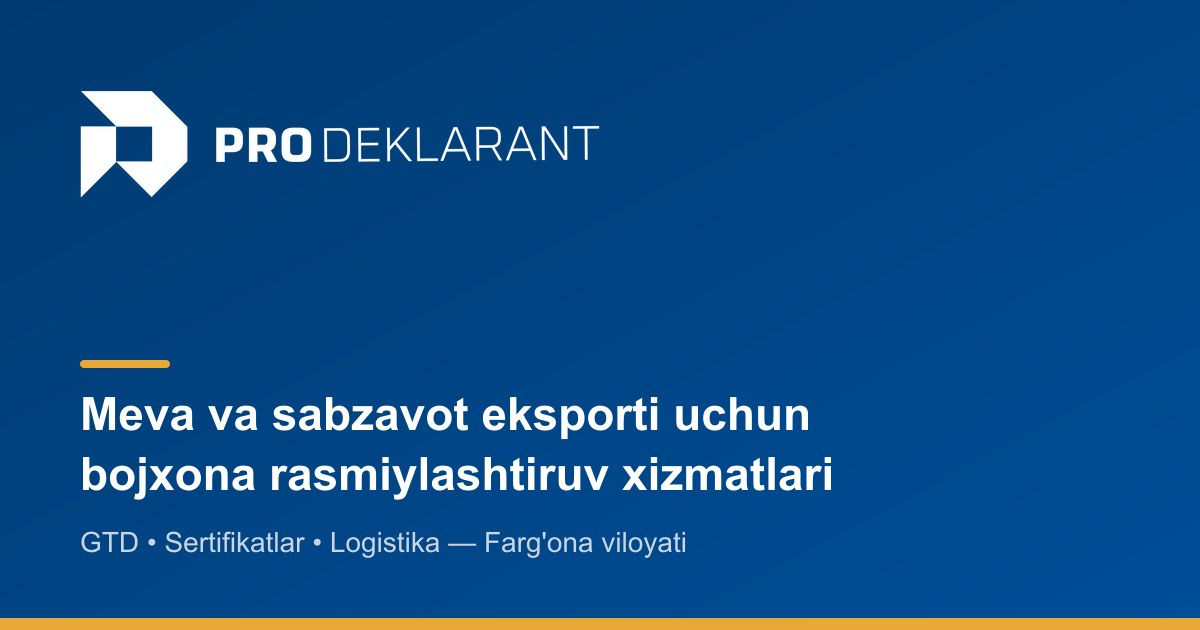
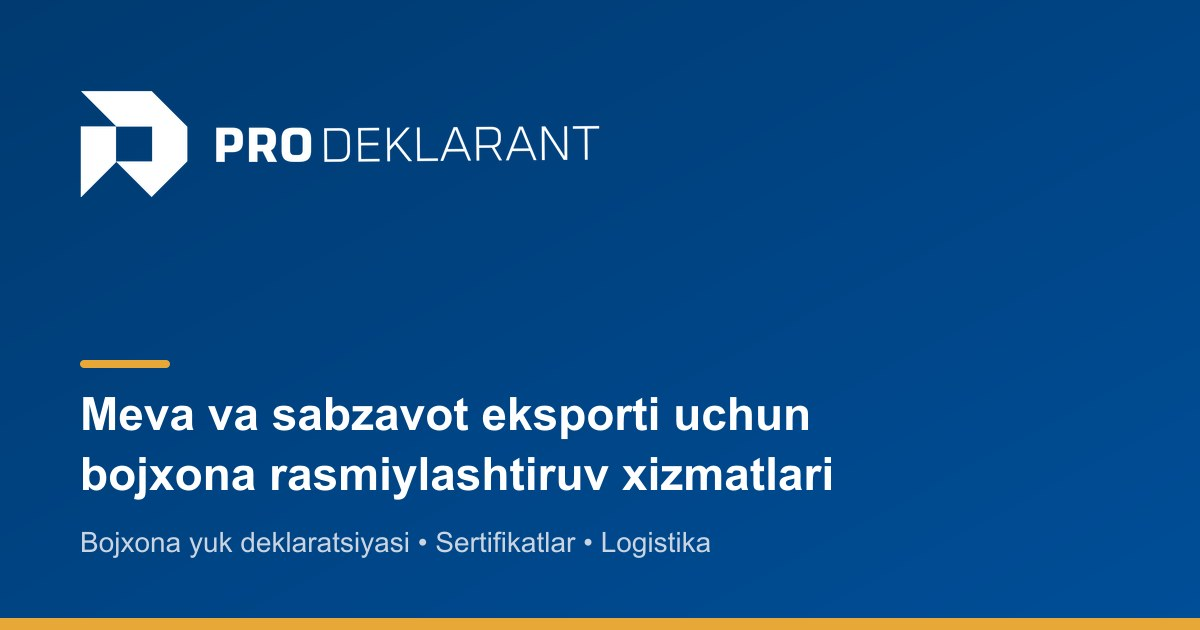
feat(home): ichki tizim bo'limi, Afzalliklar yangilandi, GTD → bojxona yuk deklaratsiyasi
- yangi 'Bizning tizim' bo'limi (04), keyingi bo'limlar qayta raqamlandi
- Afzalliklar: tezkor, xatosiz hujjatlar, ixtisoslashuv, kechki smena
- hero: sariq ibora, 7 qatorli kartochka, yangi matnlar
- GTD/ГТД so'zlari meta, og-rasm va tarjimalardan olib tashlandi

Changed region(s): [[0.0617, 0.8444, 0.6167, 0.9048]]

diff --git a/src/app/components/home/System.tsx b/src/app/components/home/System.tsx
@@ -1,0 +1,76 @@
+import { Check, FileSearch, LayoutDashboard, ListChecks, QrCode, Wand2 } from 'lucide-react';
+import { useTranslation } from 'react-i18next';
+import { SectionLabel, type CssVars } from './shared';
+
+const FEATURES = [
+  { icon: FileSearch, key: 'check' },
+  { icon: Wand2, key: 'fill' },
+  { icon: LayoutDashboard, key: 'cabinet' },
+  { icon: ListChecks, key: 'stages' },
+  { icon: QrCode, key: 'qr' },
+] as const;
+
+/** Mijoz kabinetidagi bosqichlar (Hero kartochkasi bilan bir xil nomlar). Ma'lumot emas, sxema. */
+const STAGES = ['invoice', 'packing', 'certs', 'tir', 'analysis', 'declaration', 'submit'] as const;
+const DONE = 5;
+
+export default function System({ num = '04' }: { num?: string }) {
+  const { t } = useTranslation();
+  return (
+    <section id="system" style={{ background: 'var(--paper)', padding: '120px 0' }}>
+      <div className="wrap" style={{ display: 'flex', flexWrap: 'wrap', gap: '64px 80px', alignItems: 'flex-start' }}>
+        <div style={{ flex: '1 1 460px', minWidth: 0 }}>
+          <div className="rv">
+            <SectionLabel num={num}>{t('pd.system.label')}</SectionLabel>
+            <h2 className="serif h2">{t('pd.system.title')}</h2>
+            <p className="lede">{t('pd.system.lede')}</p>
+          </div>
+          <div style={{ marginTop: 44, borderBottom: '1px solid var(--line)' }}>
+            {FEATURES.map((f, i) => (
+              <div key={f.key} className="adv rv" style={{ '--s': `${i * 5}%`, padding: '24px 0 24px 26px' } as CssVars}>
+                <div className="ibox"><f.icon size={24} strokeWidth={1.6} aria-hidden /></div>
+                <div>
+                  <h3 className="serif" style={{ margin: '0 0 6px', fontSize: 24, lineHeight: 1.2 }}>{t(`pd.system.items.${f.key}.title`)}</h3>
+                  <p style={{ margin: 0, color: 'var(--mut)', fontSize: 16 }}>{t(`pd.system.items.${f.key}.desc`)}</p>
+                </div>
+              </div>
+            ))}
+          </div>
+          <p className="rv" style={{ margin: '26px 0 0', color: 'var(--mut)', fontSize: 15 }}>{t('pd.system.note')}</p>
+        </div>
+
+        <div className="sys-wrap rv" style={{ '--s': '8%' } as CssVars}>
+          <div className="sys-card" role="img" aria-label={t('pd.system.cabinet.title')}>
+            <div className="sys-bar">
+              <span className="mono" style={{ color: 'var(--gold-d)', fontSize: 12 }}>{t('pd.system.cabinet.title')}</span>
+              <span className="mono" style={{ color: 'var(--mut)', fontSize: 12 }}>{DONE} / {STAGES.length}</span>
+            </div>
+            <div className="sys-prog"><i style={{ width: `${(DONE / STAGES.length) * 100}%` }} /></div>
+            <div className="mono" style={{ padding: '16px 24px 4px', color: 'var(--mut)', fontSize: 11.5 }}>{t('pd.system.cabinet.sub')}</div>
+            <ol style={{ listStyle: 'none', margin: 0, padding: '0 24px 8px' }}>
+              {STAGES.map((st, i) => {
+                const state = i < DONE ? 'done' : i === DONE ? 'doing' : 'wait';
+                return (
+                  <li key={st} className={`sys-row sys-${state}`}>
+                    <span className="sys-dot" aria-hidden>
+                      {state === 'done' && (
+                        <svg viewBox="0 0 24 24" width="14" height="14">
+                          <path className="sys-tk" pathLength={1} style={{ '--s': `${i * 4}%` } as CssVars} d="M4 12l5 5L20 6" fill="none" stroke="currentColor" strokeWidth="3" strokeLinecap="round" strokeLinejoin="round" />
+                        </svg>
+                      )}
+                    </span>
+                    <span className="sys-name">{t(`pd.hero.card.${st}`)}</span>
+                    <span className="sys-state">{t(`pd.system.cabinet.${state}`)}</span>
+                  </li>
+                );
+              })}
+            </ol>
+            <div className="sys-foot">
+              <Check size={16} strokeWidth={2} aria-hidden /> {t('pd.system.cabinet.foot')}
+            </div>
+          </div>
+        </div>
+      </div>
+    </section>
+  );
+}

diff --git a/index.html b/index.html
@@ -12,7 +12,7 @@
   <!-- SEO:start -->
   <title>PRO DEKLARANT — Meva va sabzavot eksporti uchun bojxona rasmiylashtiruv</title>
   <meta name="description"
-    content="Meva-sabzavot eksportchilari uchun professional bojxona brokerlik xizmatlari. GTD rasmiylashtirish, sertifikatlar, logistika. Farg'ona viloyati." />
+    content="Meva-sabzavot eksportchilari uchun professional bojxona brokerlik xizmatlari. Bojxona yuk deklaratsiyasi, sertifikatlar, logistika. Farg'ona viloyati." />
   <link rel="canonical" href="https://prodeklarant.uz/" />
   <link rel="alternate" hreflang="uz" href="https://prodeklarant.uz/" />
   <link rel="alternate" hreflang="ru" href="https://prodeklarant.uz/ru" />
@@ -26,7 +26,7 @@
   <meta property="og:locale:alternate" content="en_US" />
   <meta property="og:title" content="PRO DEKLARANT — Meva va sabzavot eksporti uchun bojxona rasmiylashtiruv" />
   <meta property="og:description"
-    content="Meva-sabzavot eksportchilari uchun professional bojxona brokerlik xizmatlari. GTD rasmiylashtirish, sertifikatlar, logistika. Farg'ona viloyati." />
+    content="Meva-sabzavot eksportchilari uchun professional bojxona brokerlik xizmatlari. Bojxona yuk deklaratsiyasi, sertifikatlar, logistika. Farg'ona viloyati." />
   <meta property="og:url" content="https://prodeklarant.uz/" />
   <meta property="og:image" content="https://prodeklarant.uz/og-cover.jpg" />
   <meta property="og:image:width" content="1200" />
@@ -34,7 +34,7 @@
   <meta name="twitter:card" content="summary_large_image" />
   <meta name="twitter:title" content="PRO DEKLARANT — Meva va sabzavot eksporti uchun bojxona rasmiylashtiruv" />
   <meta name="twitter:description"
-    content="Meva-sabzavot eksportchilari uchun professional bojxona brokerlik xizmatlari. GTD rasmiylashtirish, sertifikatlar, logistika. Farg'ona viloyati." />
+    content="Meva-sabzavot eksportchilari uchun professional bojxona brokerlik xizmatlari. Bojxona yuk deklaratsiyasi, sertifikatlar, logistika. Farg'ona viloyati." />
   <meta name="twitter:image" content="https://prodeklarant.uz/og-cover.jpg" />
   <!-- SEO:end -->
   <script>
@@ -44,7 +44,7 @@
       var seg = p.split('/')[1];
       if (seg === 'ru' || seg === 'en') { p = p.slice(3) || '/'; }
       var pages = {
-        '/': { t: 'PRO DEKLARANT — Meva va sabzavot eksporti uchun bojxona rasmiylashtiruv', d: 'Meva-sabzavot eksportchilari uchun professional bojxona brokerlik xizmatlari. GTD rasmiylashtirish, sertifikatlar, logistika. Farg\'ona viloyati.' },
+        '/': { t: 'PRO DEKLARANT — Meva va sabzavot eksporti uchun bojxona rasmiylashtiruv', d: 'Meva-sabzavot eksportchilari uchun professional bojxona brokerlik xizmatlari. Bojxona yuk deklaratsiyasi, sertifikatlar, logistika. Farg\'ona viloyati.' },
         '/services': { t: 'Xizmatlar — PRO DEKLARANT', d: 'Bojxona yuk deklaratsiyasi, fitosanitariya, sertifikatlashtirish va eksport logistikasi. Meva-sabzavot eksporti bo\'yicha to\'liq xizmatlar.' },
         '/about': { t: 'Kompaniya haqida — PRO DEKLARANT', d: 'PRO DEKLARANT — meva va sabzavot eksporti uchun ixtisoslashtirilgan bojxona xizmatlari. Professional jamoa, qonuniy kafolat, xalqaro tajriba.' },
         '/contact': { t: 'Aloqa — PRO DEKLARANT', d: 'PRO DEKLARANT bilan bog\'laning: Farg\'ona viloyati, Oltiariq. Bepul konsultatsiya va bojxona xizmatlari bo\'yicha yordam.' },

diff --git a/src/styles/pd.css b/src/styles/pd.css
@@ -236,3 +236,30 @@ html:has(.pd-home) { scroll-behavior: smooth; }
   .pd .vmonths { font-size: 10px !important; }
   .pd .hrow { grid-template-columns: 92px minmax(0, 1fr) 48px; gap: 10px; }
 }
+
+/* Ichki tizim bo'limi: mijoz kabineti sxemasi */
+.pd .sys-wrap { flex: 1 1 400px; min-width: 0; max-width: 520px; position: sticky; top: 110px; }
+.pd .sys-card { background: #fff; border: 1px solid var(--line); border-top: 4px solid var(--blue); box-shadow: 0 40px 70px -40px rgba(10, 31, 58, .35); }
+.pd .sys-bar { display: flex; align-items: center; justify-content: space-between; gap: 12px; padding: 16px 24px 14px; }
+.pd .sys-prog { height: 3px; background: var(--line); }
+.pd .sys-prog i { display: block; height: 100%; background: var(--blue); transform-origin: left; animation: lineIn 1.1s cubic-bezier(.2, .8, .2, 1) both; }
+.pd .sys-row { display: flex; align-items: center; gap: 14px; padding: 13px 0; border-top: 1px solid var(--line); }
+.pd .sys-row:first-child { border-top: 0; }
+.pd .sys-dot { flex: none; width: 24px; height: 24px; border-radius: 50%; display: grid; place-items: center; border: 1.5px solid var(--line); color: #fff; }
+.pd .sys-name { flex: 1; min-width: 0; font-weight: 500; }
+.pd .sys-state { flex: none; font-size: 13.5px; font-weight: 600; }
+.pd .sys-done .sys-dot { background: #1F9D55; border-color: #1F9D55; }
+.pd .sys-done .sys-state { color: #17783F; }
+.pd .sys-doing .sys-dot { border-color: var(--gold); background: #fff; animation: pulse 1.8s ease-out infinite; }
+.pd .sys-doing .sys-dot::after { content: ""; width: 8px; height: 8px; border-radius: 50%; background: var(--gold); }
+.pd .sys-doing .sys-state { color: var(--gold-d); }
+.pd .sys-wait .sys-name, .pd .sys-wait .sys-state { color: var(--mut); font-weight: 400; }
+.pd .sys-foot { display: flex; align-items: center; gap: 8px; padding: 14px 24px; border-top: 1px solid var(--line); background: var(--paper); font-size: 14px; color: var(--mut); }
+.pd .sys-foot svg { color: #17783F; flex: none; }
+.pd .sys-tk { stroke-dasharray: 1; stroke-dashoffset: 0; }
+@supports (animation-timeline: view()) {
+  .pd .sys-tk { animation: draw linear both; animation-timeline: view(); animation-range: entry calc(35% + var(--s, 0%)) entry calc(75% + var(--s, 0%)); }
+}
+@media (max-width: 1000px) {
+  .pd .sys-wrap { position: static; max-width: none; flex-basis: 100%; }
+}

diff --git a/server/seo.js b/server/seo.js
@@ -33,7 +33,7 @@ const STATIC_ROUTES = {
     '/': {
       title: 'PRO DEKLARANT — Meva va sabzavot eksporti uchun bojxona rasmiylashtiruv',
       description:
-        "Meva-sabzavot eksportchilari uchun professional bojxona brokerlik xizmatlari. GTD rasmiylashtirish, sertifikatlar, logistika. Farg'ona viloyati.",
+        "Meva-sabzavot eksportchilari uchun professional bojxona brokerlik xizmatlari. Bojxona yuk deklaratsiyasi, sertifikatlar, logistika. Farg'ona viloyati.",
     },
     '/services': {
       title: 'Xizmatlar — PRO DEKLARANT',
@@ -60,7 +60,7 @@ const STATIC_ROUTES = {
     '/': {
       title: 'PRO DEKLARANT — Таможенное оформление для экспорта фруктов и овощей',
       description:
-        'Профессиональные таможенные брокерские услуги для экспортёров фруктов и овощей. Оформление ГТД, сертификаты, логистика. Ферганская область.',
+        'Профессиональные таможенные брокерские услуги для экспортёров фруктов и овощей. Оформление таможенной грузовой декларации, сертификаты, логистика. Ферганская область.',
     },
     '/services': {
       title: 'Услуги — PRO DEKLARANT',
@@ -87,7 +87,7 @@ const STATIC_ROUTES = {
     '/': {
       title: 'PRO DEKLARANT — Customs clearance for fruit and vegetable export',
       description:
-        'Professional customs brokerage for fruit and vegetable exporters. GTD clearance, certificates, logistics. Fergana region, Uzbekistan.',
+        'Professional customs brokerage for fruit and vegetable exporters. Customs cargo declaration clearance, certificates, logistics. Fergana region, Uzbekistan.',
     },
     '/services': {
       title: 'Services — PRO DEKLARANT',

diff --git a/src/app/pages/Home.tsx b/src/app/pages/Home.tsx
@@ -9,6 +9,7 @@ import Partners from '../components/home/Partners';
 import Why from '../components/home/Why';
 import ServicesPicker from '../components/home/ServicesPicker';
 import Process from '../components/home/Process';
+import System from '../components/home/System';
 import Products from '../components/home/Products';
 import Results from '../components/home/Results';
 import Tariffs from '../components/home/Tariffs';
@@ -40,6 +41,7 @@ export default function Home() {
       <Why />
       <ServicesPicker />
       <Process />
+      <System />
       <Products />
       <Results stats={stats} />
       <Tariffs />
@@ -48,8 +50,8 @@ export default function Home() {
       <Testimonials />
 
       {/* Maqola bo'lmasa blok chizilmaydi; raqamlash shunga moslashadi */}
-      {latestPosts.length > 0 && <BlogPreview posts={latestPosts} num="07" />}
-      <ContactSection num={latestPosts.length > 0 ? '08' : '07'} />
+      {latestPosts.length > 0 && <BlogPreview posts={latestPosts} num="08" />}
+      <ContactSection num={latestPosts.length > 0 ? '09' : '08'} />
     </div>
   );
 }

diff --git a/src/app/components/home/Results.tsx b/src/app/components/home/Results.tsx
@@ -185,7 +185,7 @@ export default function Results({ stats }: { stats: SiteStats | null }) {
       <div className="wrap">
         <div className="rv" style={{ display: 'flex', flexWrap: 'wrap', alignItems: 'flex-end', justifyContent: 'space-between', gap: 28 }}>
           <div>
-            <SectionLabel num="05">{t('pd.results.label')}</SectionLabel>
+            <SectionLabel num="06">{t('pd.results.label')}</SectionLabel>
             <h2 id="results-heading" className="serif h2">{live ? t('pd.results.title') : t('home.stats.title')}</h2>
             {live && <p className="lede">{t('trust.stats.subtitle', { months: stats.periodMonths })}</p>}
           </div>

diff --git a/src/app/components/home/Why.tsx b/src/app/components/home/Why.tsx
@@ -1,12 +1,12 @@
-import { Globe, ShieldCheck, Users, Zap } from 'lucide-react';
+import { Cherry, Moon, ShieldCheck, Zap } from 'lucide-react';
 import { useTranslation } from 'react-i18next';
 import { Photo, SectionLabel, type CssVars } from './shared';
 
 const ITEMS = [
   { icon: Zap, key: 'fast' },
   { icon: ShieldCheck, key: 'legal' },
-  { icon: Users, key: 'team' },
-  { icon: Globe, key: 'global' },
+  { icon: Cherry, key: 'focus' },
+  { icon: Moon, key: 'night' },
 ] as const;
 
 export default function Why() {

diff --git a/src/app/components/home/Tariffs.tsx b/src/app/components/home/Tariffs.tsx
@@ -9,7 +9,7 @@ export default function Tariffs() {
     <section id="tariffs" style={{ background: '#fff', padding: '120px 0' }}>
       <div className="wrap">
         <div className="rv">
-          <SectionLabel num="06">{t('pd.tariffs.label')}</SectionLabel>
+          <SectionLabel num="07">{t('pd.tariffs.label')}</SectionLabel>
           <h2 className="serif h2">{t('pd.tariffs.title')}</h2>
           <p className="lede">{t('home.tariffs.subtitle')}</p>
         </div>

diff --git a/src/app/components/home/Products.tsx b/src/app/components/home/Products.tsx
@@ -13,7 +13,7 @@ export default function Products() {
     <section style={{ background: '#fff', padding: '120px 0' }}>
       <div className="wrap">
         <div className="rv">
-          <SectionLabel num="04">{t('pd.products.label')}</SectionLabel>
+          <SectionLabel num="05">{t('pd.products.label')}</SectionLabel>
           <h2 className="serif h2">{t('pd.products.title')}</h2>
           <p className="lede">{t('pd.products.lede')}</p>
         </div>
